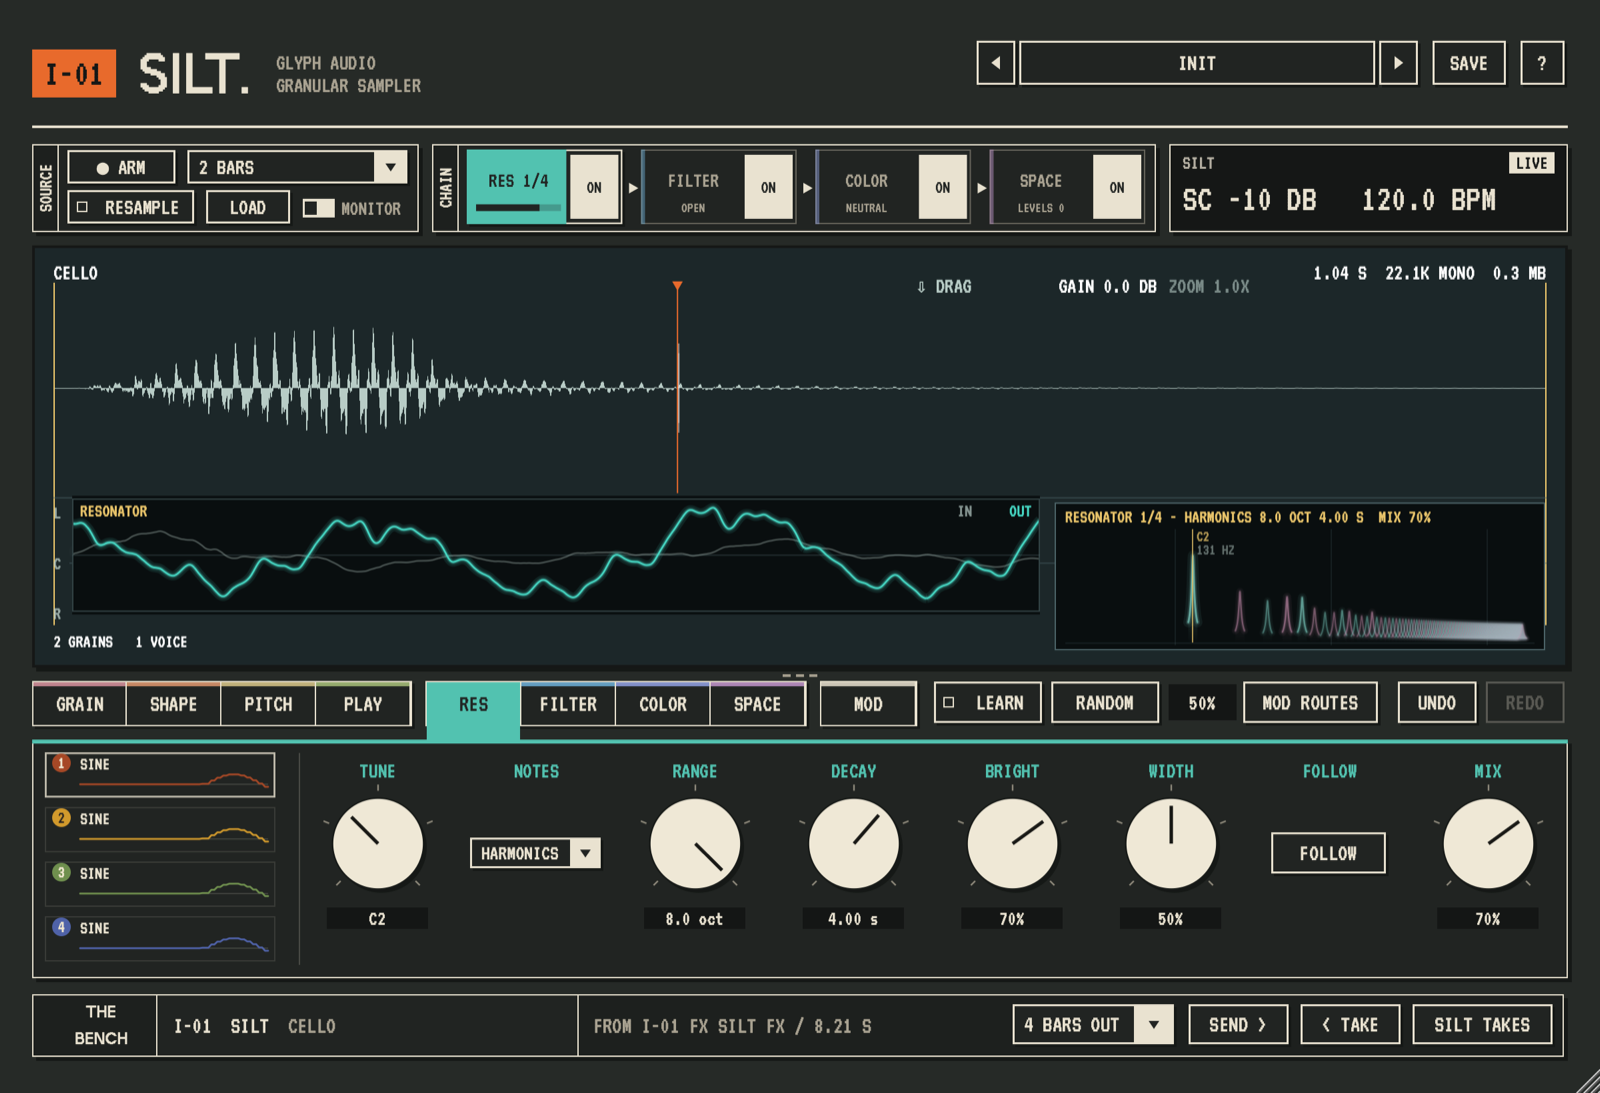
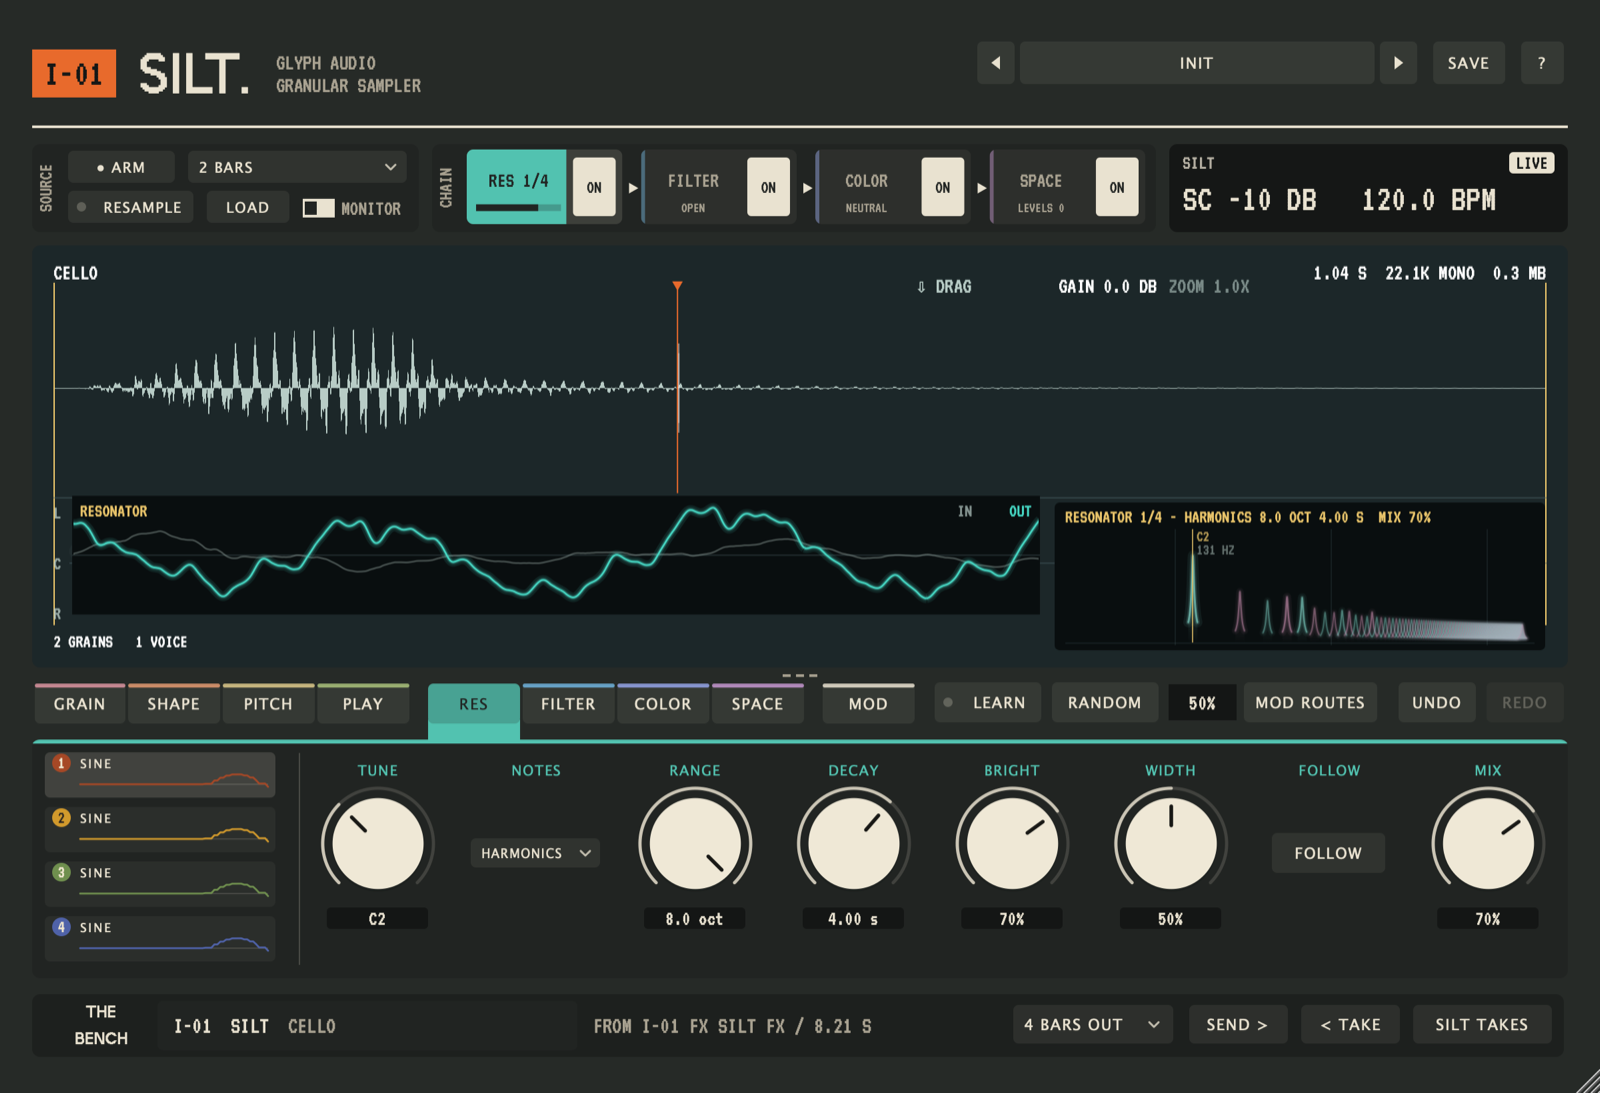
Silt 0.2.0: the frameless look, with the README's screenshot to match

diff --git a/README.md b/README.md
@@ -38,7 +38,7 @@ Everything is described control by control in the [manual](docs/MANUAL.md).
 
 ## Status
 
-Version 0.1.0. It's developed and tested in Ableton Live 12 on macOS; other hosts
+Version 0.2.0. It's developed and tested in Ableton Live 12 on macOS; other hosts
 are untested and a Windows build is in progress.
 
 ## Install
